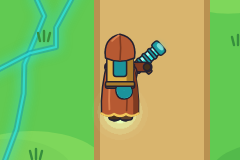
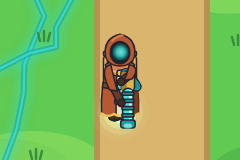
050 review: the forward shot aims below the player and waits for the down facing
Claude-Session: https://claude.ai/code/session_019ig8gw5L4yavYF6tvwkS5C

Changed region(s): [[0.4083, 0.2188, 0.7, 0.8125]]

diff --git a/tests/e2e/playtestFixes2Shots.spec.ts b/tests/e2e/playtestFixes2Shots.spec.ts
@@ -27,8 +27,23 @@ test.describe('review screenshots (050)', () => {
 
   test('01 the wanderer facing forward, in play and on the contact sheet', async ({ page }) => {
     await boot(page, '?start=field&attuned');
-    await page.evaluate(() => window.__GAME__?.step(1, { moveY: 1 }));
-    await page.evaluate(() => window.__GAME__?.step(30));
+    // The drawn facing follows the aim (the hook steps by hand, so the mouse doesn't aim): step with the aim well below
+    // the player, then wait until the state reads it as facing down before the shot.
+    await page.evaluate(() => {
+      const g = window.__GAME__;
+      if (!g) throw new Error('no game');
+      const at = g.getState().player;
+      g.step(1, { moveY: 1, aimX: at.x, aimY: at.y + 80 });
+      g.step(30);
+    });
+    await expect
+      .poll(async () =>
+        page.evaluate(() => {
+          const pl = window.__GAME__?.getState().player;
+          return !!pl && pl.facing === 'down' && pl.aim.y - pl.y > Math.abs(pl.aim.x - pl.x);
+        }),
+      )
+      .toBe(true);
     await quietScreen(page);
     await cameraSettled(page);
     const p = (await ui(page))?.camera.player;
